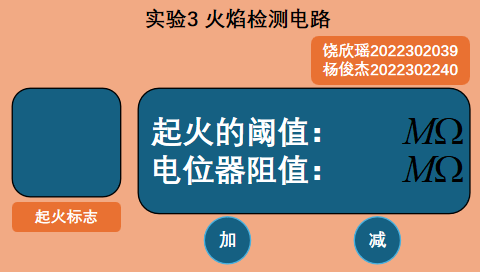
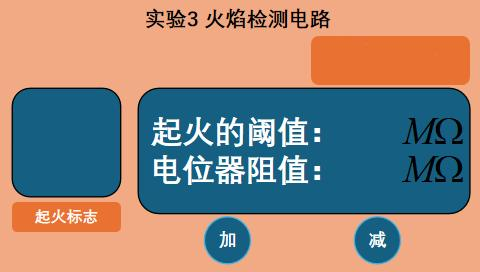
Update README.md and some pictures

diff --git a/README.md b/README.md
@@ -58,11 +58,39 @@ ___Feedback Control Circuit___: When a low level is input to the EN pin, the chi
         <img src="assets/results/2_XL1509_ADJ.jpg" alt="Virtual Assistant Test" width="510" height="400">
     </div>
 </div>
-___2.GUI Design___: For the experimental interface display, as shown in Figure 2, a VGUS display interface was designed. Using WPS PPT, functional components were drawn, including on/off buttons for enabling/disabling functions, digital display modules for showing output voltage and current, and button control components for adjusting output voltage (with a step size of 0.1V for increment/decrement), realizing user control over the stepped-down output voltage. Meanwhile, a virtual simulation serial port was used for testing to ensure that key value feedback matches the pre-set target values. The project files of GUI Screen are [here](https://github.com/Rtwotwo/Micro-Development/tree/main/ui/EXP2_ScreenUI).  
+___2.GUI Design___: For the experimental interface display, as shown in Figure 2, a VGUS display interface was designed. Using WPS PPT, functional components were drawn, including on/off buttons for enabling/disabling functions, digital display modules for showing output voltage and current, and button control components for adjusting output voltage (with a step size of 0.1V for increment/decrement), realizing user control over the stepped-down output voltage. Meanwhile, a virtual simulation serial port was used for testing to ensure that key value feedback matches the pre-set target values. The project files of GUI Screen are ![ here ](https://github.com/Rtwotwo/Micro-Development/tree/main/ui/EXP2_ScreenUI).  
 <div align="center">
 <img src='assets/results/2_exp2_screen_ui.jpg', alt='GUI Design'>
 </div>
 
 ## :mag: 3.Flame Detection Circuits
 
-## Continuous Updating
+In the third circuit experiment, we need to use resistors to replace thermistors for flame detection: when the fire grows larger, the resistance values of R1 to R10 connected to the circuit gradually decrease, and an alarm will be triggered when the resistance values are lower than a certain threshold. Therefore, this experiment mainly has two tasks:(1). Design using Multisim: perational amplifier selection: LM324/OP07. Transformer: Simulation using an ideal transformer; Simulation using the UU9.8 - 50mH model; Differences from the ideal transformer and how to improve the circuit. (2). Reasonable debugging. What are the differences between simulation and actual measurement?  
+<div align="center">
+<img src='assets/screen_exp3/circuit.jpg', alt='GUI Design'>
+</div>
+
+___1.Circuit Design___: OP07 and LM324 are two different types of operational amplifiers, each with its applicable scenarios, advantages, and disadvantages. OP07 is a high-precision operational amplifier, and its main advantages include:(1).High precision: OP07 has very small input bias current and input offset voltage, resulting in high output precision. It is commonly used in precision measurement and control systems. (2).Low noise: The internal circuit design of OP07 minimizes noise, making it suitable for applications requiring high-precision signal acquisition and processing. (3).Low offset voltage: OP07 has a very small offset voltage, making it suitable for applications requiring high-precision operations.  
+LM324 is a commonly used operational amplifier, and its main advantages include: (1).Low cost: The manufacturing cost of LM324 is relatively low, so its price is also cheaper, making it suitable for applications with low cost requirements. (2). High output current: LM324 has a relatively high output current, making it suitable for applications requiring high-current drive. (3).Wide input voltage range: LM324 has a relatively wide input voltage range, making it suitable for applications requiring the processing of relatively large signals. Finally, two OP07s are used for the first and second - stage amplification in the designed circuit diagram, and an LM324 is used for the third - stage amplification. Note that the signal output from the second - stage amplification is a half - wave rectified waveform, and the output of the third - stage is the finally detected DC voltage value and according to the circuit diagram shown.  
+<div style="text-align: center; margin: 20px;">
+    <div style="display: inline-flex; gap: 10px;">
+        <img src="assets/screen_exp3/welding_0.jpg" alt="Real Circuit Diagram" width="400" height="200">
+        <img src="assets/screen_exp3/welding_1.jpg" alt="Virtual Assistant Test" width="400" height="200">
+    </div>
+</div>
+___2.Circuit Tuning___: After the circuit is soldered, a 100Hz square wave signal with 3.3V needs to be input to the board through an amplifier. However, the signal after passing through the transformer may have some impulse voltage due to lack of tuning. When the peak value of this impulse voltage is greater than the peak of the signal after half - wave rectification, it will lead to instability in the final voltage output at the two stages of R9 and R10. Therefore, it is necessary to tune the output and gradually change the frequency of the square wave signal until the output reaches the maximum value.  
+<div style="text-align: center; margin: 20px;">
+    <div style="display: inline-flex; gap: 10px;">
+        <img src="assets/screen_exp3/simulation_0.jpg" alt="Real Circuit Diagram" width="600" height="200">
+        <img src="assets/screen_exp3/simulation_1.jpg" alt="Virtual Assistant Test" width="200" height="200">
+    </div>
+</div>
+___3.GUI Design___: The interface of this flame detection circuit experiment includes the title "Experiment 3: Flame Detection Circuit". On the left side, there is a graphical component named "Fire Alarm Indicator", which is used to visually show the fire state. The blue area in the middle displays key parameters. "Fire Threshold: 4 MΩ" indicates the critical resistance value for triggering the fire determination, and "Potentiometer Resistance: 10 MΩ" represents the currently set resistance of the potentiometer. At the bottom, there are "Increase" and "Decrease" buttons, which can be used to adjust relevant parameters. The overall layout clearly presents the key information of the experiment and the interactive controls.
+And the UI project file is at the [file](ui\EXP3_Now\EXP3_Now.vt).
+<div align="center">
+<img src='assets/screen_exp3/ui_0.jpg', alt='GUI Design'>
+</div>
+
+## :heart: Thanks
+
+In this circuit synthesis experimental course, due to my initial learning of single - chip microcomputer usage and circuit design, there were numerous difficulties. However, I'm very grateful for the assistance from senior students of previous years, and most importantly, for the help from He. This enabled our group to successfully pass this experimental course.  
